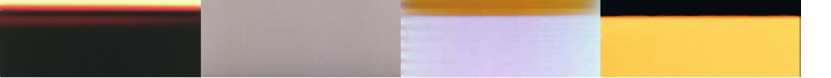
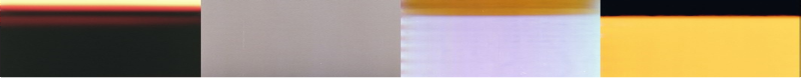
photooo

diff --git a/about.html b/about.html
@@ -15,7 +15,7 @@
       <h1 class="about-title">Background</h1>
 
       <div class="about-bio">
-        <p>Robert (preferred name: Roberto) Giron is a scholar and multimedia artist exploring the intersection of culture and commerce; art and product. Born in Van Nuys, CA, of Salvadoran descent, Giron's background spans commercial client work, exhibition installation, and coursework in economics and media arts. His work bridges the gap between two worlds: digital and human. Regardless of scale, his practice investigates the &ldquo;in-between&rdquo;&mdash;the unseen forces that bind us together and generate meaning.</p>
+        <p>Robert (preferred name: Roberto) Giron is a scholar and multimedia artist exploring the intersection of culture and commerce; art and product. Born in Van Nuys, CA, of Salvadoran descent, Giron's background spans coursework in economics and media arts, academic research, commercial client work, and exhibition installation. His work bridges the gap between two worlds: digital and human. Regardless of scale, his practice investigates the &ldquo;in-between&rdquo;&mdash;the unseen forces that bind us together and generate meaning.</p>
       </div>
     </div>
 
